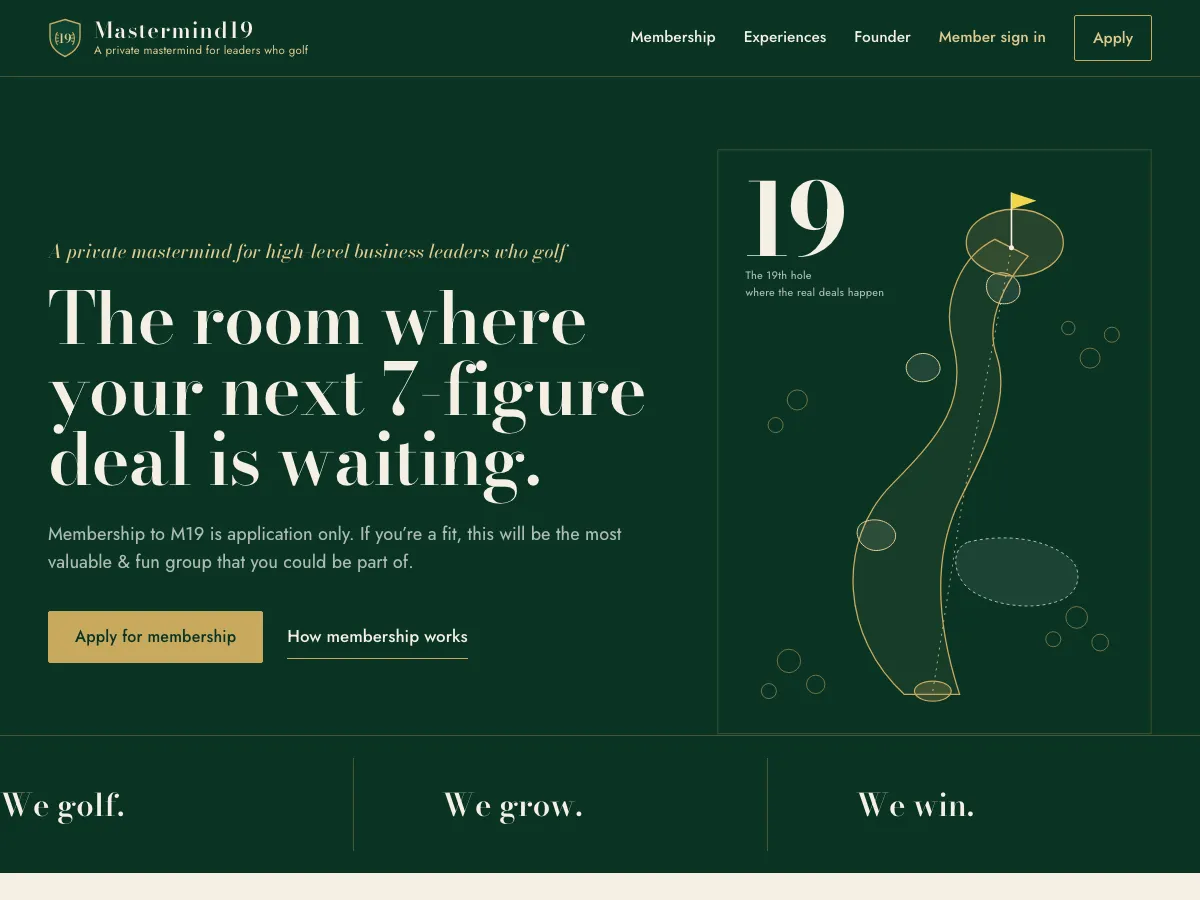
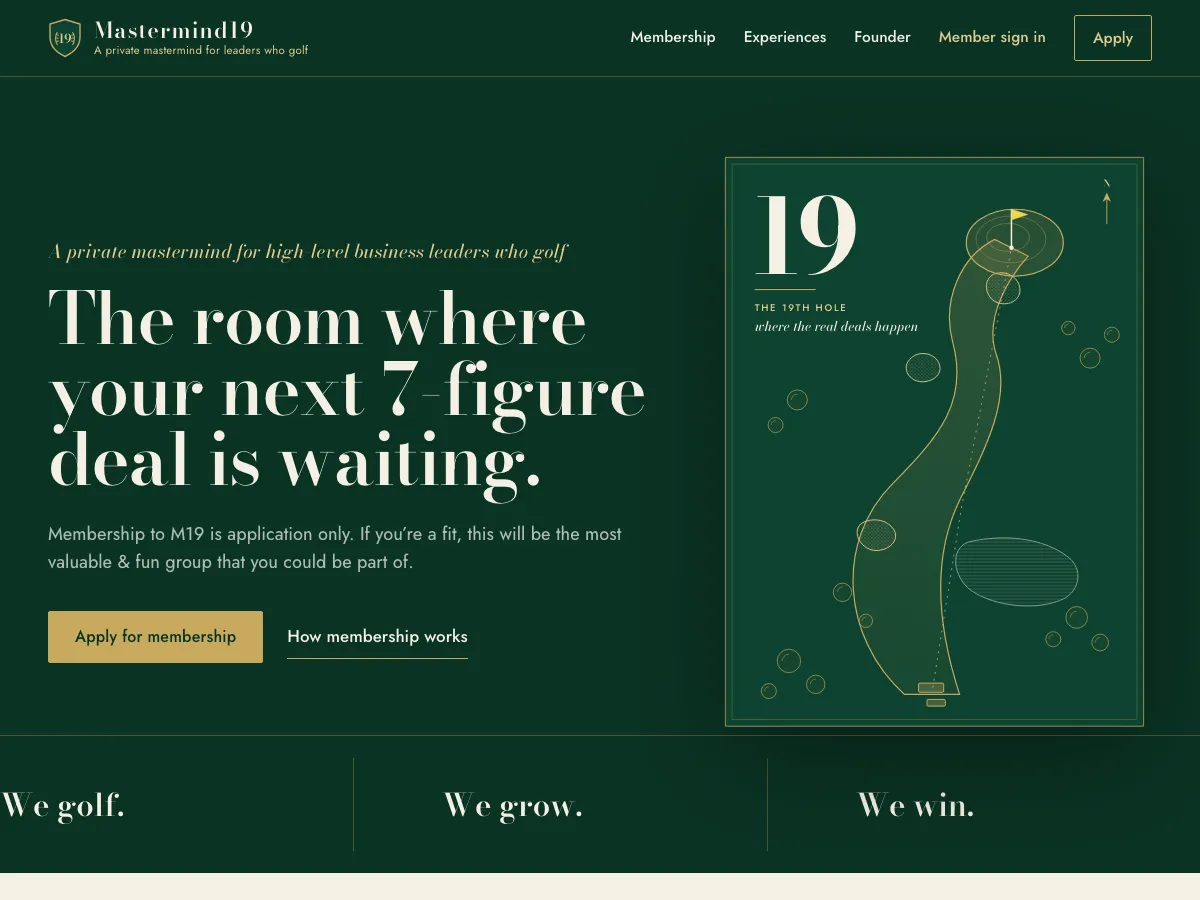
Mastermind19: engraved greens-book plates for the hole drawings
The hero hole and the four benefit holes are now generated from one
function: double-rule frame, solid fine gold line work, stippled bunkers,
hatched water, contour rings on the green, faint mowing stripes, tee boxes,
canopy-shaded trees, a north arrow and a letterspaced plate label. Fixes the
dotted strokes the draw-on animation left behind (pathLength="1") and the
reduced-motion rule that forced every stroke to full opacity.

Changed region(s): [[0.5858, 0.1556, 0.9558, 0.8089], [0.8017, 0.2489, 0.8633, 0.3111], [0.8325, 0.2178, 0.8633, 0.2489]]

diff --git a/preview/mastermind19/site.js b/preview/mastermind19/site.js
@@ -4,16 +4,59 @@
   var btn=document.querySelector('.menu-btn'), drawer=document.getElementById('drawer');
   if(btn&&drawer){btn.addEventListener('click',function(){var open=drawer.classList.toggle('open');btn.setAttribute('aria-expanded',open?'true':'false');btn.textContent=open?'Close':'Menu';});}
 
-  // yardage-book hole diagrams: drawn once here, placed wherever <div data-hole="n"> appears
+  // Engraved greens-book plates. One generator, five holes. Shared defs (gradient, stipple, hatch) injected once.
+  document.body.insertAdjacentHTML('afterbegin','<svg width="0" height="0" style="position:absolute" aria-hidden="true" focusable="false"><defs>'+
+    '<linearGradient id="m19-fw" x1="0" y1="0" x2="0" y2="1"><stop offset="0" stop-color="#C8A95E" stop-opacity=".17"/><stop offset="1" stop-color="#C8A95E" stop-opacity=".05"/></linearGradient>'+
+    '<linearGradient id="m19-fwL" x1="0" y1="0" x2="0" y2="1"><stop offset="0" stop-color="#155C41" stop-opacity=".18"/><stop offset="1" stop-color="#155C41" stop-opacity=".06"/></linearGradient>'+
+    '<pattern id="m19-sand" width="4" height="4" patternUnits="userSpaceOnUse"><circle cx="1" cy="1" r=".6" fill="#E2CB8E" opacity=".75"/><circle cx="3" cy="3" r=".6" fill="#E2CB8E" opacity=".45"/></pattern>'+
+    '<pattern id="m19-sandL" width="4" height="4" patternUnits="userSpaceOnUse"><circle cx="1" cy="1" r=".6" fill="#6E5420" opacity=".45"/><circle cx="3" cy="3" r=".6" fill="#6E5420" opacity=".25"/></pattern>'+
+    '<pattern id="m19-water" width="6" height="4" patternUnits="userSpaceOnUse"><line x1="0" y1="2" x2="6" y2="2" stroke="#8FA398" stroke-width=".6" opacity=".6"/></pattern>'+
+    '</defs></svg>');
+  function hole(o){
+    var s='<svg class="yd" viewBox="0 0 '+o.w+' '+o.h+'" role="img" aria-label="'+o.aria+'">';
+    s+='<defs><clipPath id="'+o.id+'-clip"><path d="'+o.fw+'"/></clipPath></defs>';
+    if(o.plate){ s+='<rect class="plate" x="10" y="10" width="'+(o.w-20)+'" height="'+(o.h-20)+'"/><rect class="frame" x="10" y="10" width="'+(o.w-20)+'" height="'+(o.h-20)+'"/><rect class="frame2" x="18" y="18" width="'+(o.w-36)+'" height="'+(o.h-36)+'"/>'; }
+    else { s+='<rect class="frame" x=".5" y=".5" width="'+(o.w-1)+'" height="'+(o.h-1)+'"/>'; }
+    s+='<g class="tr">'+o.trees.map(function(t){ var r=t[2]*.58; return '<circle cx="'+t[0]+'" cy="'+t[1]+'" r="'+t[2]+'" pathLength="1"/><path class="tri" d="M'+(t[0]-r).toFixed(1)+' '+t[1]+' A'+r.toFixed(1)+' '+r.toFixed(1)+' 0 0 1 '+t[0]+' '+(t[1]-r).toFixed(1)+'" pathLength="1"/>'; }).join('')+'</g>';
+    if(o.wt) s+='<path class="wt" d="'+o.wt+'" pathLength="1"/>';
+    s+='<path class="fw" d="'+o.fw+'" pathLength="1"/>';
+    s+='<g class="mow" clip-path="url(#'+o.id+'-clip)">'; for(var x=-o.h; x<o.w+o.h; x+=o.stripe){ s+='<line x1="'+x+'" y1="0" x2="'+(x+o.h)+'" y2="'+o.h+'"/>'; } s+='</g>';
+    o.tees.forEach(function(t){ s+='<rect class="tee" x="'+(t[0]-t[2]/2)+'" y="'+(t[1]-t[3]/2)+'" width="'+t[2]+'" height="'+t[3]+'" rx="1.5" pathLength="1"/>'; });
+    o.bk.forEach(function(d){ s+='<path class="bk" d="'+d+'" pathLength="1"/>'; });
+    var g=o.green; s+='<ellipse class="gr" cx="'+g.cx+'" cy="'+g.cy+'" rx="'+g.rx+'" ry="'+g.ry+'" pathLength="1"/>';
+    s+='<ellipse class="ct" cx="'+(g.cx-g.rx*.08).toFixed(1)+'" cy="'+(g.cy-g.ry*.1).toFixed(1)+'" rx="'+(g.rx*.72).toFixed(1)+'" ry="'+(g.ry*.7).toFixed(1)+'" pathLength="1"/><ellipse class="ct" cx="'+(g.cx-g.rx*.14).toFixed(1)+'" cy="'+(g.cy-g.ry*.16).toFixed(1)+'" rx="'+(g.rx*.44).toFixed(1)+'" ry="'+(g.ry*.42).toFixed(1)+'" pathLength="1"/>';
+    s+='<polyline class="ln" points="'+o.line+'"/>';
+    var p=g.pin, fl=o.flag; s+='<g class="pinset"><line class="pin" x1="'+p[0]+'" y1="'+p[1]+'" x2="'+p[0]+'" y2="'+(p[1]-fl)+'"/><path class="flag" d="M'+p[0]+' '+(p[1]-fl)+' l'+(fl*.42).toFixed(1)+' '+(fl*.14).toFixed(1)+' -'+(fl*.42).toFixed(1)+' '+(fl*.14).toFixed(1)+'z"/><circle class="cup" cx="'+p[0]+'" cy="'+p[1]+'" r="'+o.cup+'"/></g>';
+    if(o.north){ var n=o.north; s+='<g class="north"><line x1="'+n[0]+'" y1="'+(n[1]+38)+'" x2="'+n[0]+'" y2="'+(n[1]+8)+'"/><path d="M'+n[0]+' '+n[1]+' l5 11 -5 -3 -5 3z"/><text x="'+n[0]+'" y="'+(n[1]-7)+'" text-anchor="middle" class="nlab">N</text></g>'; }
+    if(o.label){ var L=o.label; s+='<text class="num" x="'+L.x+'" y="'+L.y+'">'+L.num+'</text><line class="lrule" x1="'+(L.x+5)+'" y1="'+(L.y+18)+'" x2="'+(L.x+78)+'" y2="'+(L.y+18)+'"/><text class="lbl" x="'+(L.x+5)+'" y="'+(L.y+44)+'">'+L.l1+'</text><text class="lbl2" x="'+(L.x+5)+'" y="'+(L.y+68)+'">'+L.l2+'</text>'; }
+    return s+'</svg>';
+  }
+  var SM={w:220,h:300,stripe:14,flag:34,cup:1.8,plate:false};
   var H={
-    // hero: the 19th hole
-    19:'<svg class="yd" viewBox="0 0 520 700" role="img" aria-label="Yardage-book drawing of a hole numbered nineteen, pin on the green"><rect class="frame" x="1" y="1" width="518" height="698"/><g class="tr"><circle cx="86" cy="612" r="14"/><circle cx="118" cy="640" r="11"/><circle cx="62" cy="648" r="9"/><circle cx="430" cy="560" r="13"/><circle cx="458" cy="590" r="10"/><circle cx="402" cy="586" r="9"/><circle cx="96" cy="300" r="12"/><circle cx="70" cy="330" r="9"/><circle cx="446" cy="250" r="12"/><circle cx="472" cy="222" r="9"/><circle cx="420" cy="214" r="8"/></g><path class="wt" d="M300 470c40-10 90-6 120 18 18 14 14 40-6 50-30 14-80 10-110-10-22-16-26-50-4-58z"/><path class="fw" d="M224 652 C150 585 140 470 210 400 C268 342 300 300 282 232 C268 180 292 128 332 108 L372 128 C352 150 318 200 334 246 C352 298 322 356 290 420 C258 486 262 566 290 652 Z"/><ellipse class="tee" cx="258" cy="648" rx="22" ry="12"/><path class="bk" d="M172 448c12-8 32-6 40 8 6 12-6 24-22 24-16 0-30-20-18-32z"/><path class="bk" d="M330 150c14-6 30 2 32 16 2 14-12 22-26 18-14-4-20-26-6-34z"/><path class="bk" d="M232 250c10-10 30-6 34 8 4 12-10 22-24 20-14-2-22-18-10-28z"/><ellipse class="gr" cx="356" cy="112" rx="58" ry="40"/><path class="ln" d="M258 648 L292 430 L352 118"/><g class="pinset"><line class="pin" x1="352" y1="118" x2="352" y2="52"/><path class="flag" d="M352 52 l30 10 -30 10z"/><circle class="cup" cx="352" cy="118" r="3"/></g><text class="num" x="30" y="128">19</text><text class="lbl" x="34" y="156">The 19th hole</text><text class="lbl" x="34" y="176">where the real deals happen</text></svg>',
-    1:'<svg class="yd" viewBox="0 0 220 300" role="img" aria-label="Hole one, a straight par three"><rect class="frame" x=".5" y=".5" width="219" height="299"/><g class="tr"><circle cx="40" cy="250" r="8"/><circle cx="26" cy="268" r="6"/><circle cx="182" cy="90" r="8"/><circle cx="196" cy="110" r="6"/></g><path class="fw" d="M92 262c-10-50-6-100 8-150 6-22 20-30 30-16 12 18 10 60 4 100-4 30-6 70-20 74-12 4-18-2-22-8z"/><ellipse class="tee" cx="104" cy="264" rx="12" ry="6"/><path class="bk" d="M60 120c8-6 20-2 22 8 2 8-8 14-16 12-10-2-14-14-6-20z"/><ellipse class="gr" cx="118" cy="86" rx="30" ry="22"/><path class="ln" d="M104 264 L116 90"/><g class="pinset"><line class="pin" x1="116" y1="90" x2="116" y2="50"/><path class="flag" d="M116 50 l18 6 -18 6z"/><circle class="cup" cx="116" cy="90" r="2"/></g></svg>',
-    2:'<svg class="yd" viewBox="0 0 220 300" role="img" aria-label="Hole two, a dogleg right"><rect class="frame" x=".5" y=".5" width="219" height="299"/><g class="tr"><circle cx="150" cy="240" r="8"/><circle cx="170" cy="256" r="6"/><circle cx="46" cy="130" r="8"/><circle cx="30" cy="150" r="6"/></g><path class="fw" d="M70 262c-8-40-4-80 16-110 18-26 48-36 80-30 24 4 32 26 14 40-22 18-56 10-74 36-16 24-10 50-14 70-2 10-18 10-22-6z"/><ellipse class="tee" cx="78" cy="266" rx="12" ry="6"/><path class="bk" d="M120 160c8-6 20-2 22 8 2 8-8 14-16 12-10-2-14-14-6-20z"/><path class="bk" d="M190 140c6-6 16-2 16 6 0 8-8 12-14 8-6-4-8-10-2-14z"/><ellipse class="gr" cx="166" cy="96" rx="30" ry="22"/><path class="ln" d="M78 266 L96 150 L164 100"/><g class="pinset"><line class="pin" x1="164" y1="100" x2="164" y2="60"/><path class="flag" d="M164 60 l18 6 -18 6z"/><circle class="cup" cx="164" cy="100" r="2"/></g></svg>',
-    3:'<svg class="yd" viewBox="0 0 220 300" role="img" aria-label="Hole three, over water to an island green"><rect class="frame" x=".5" y=".5" width="219" height="299"/><g class="tr"><circle cx="34" cy="250" r="8"/><circle cx="196" cy="240" r="7"/><circle cx="184" cy="40" r="7"/></g><path class="wt" d="M30 180c30-50 100-70 160-40 20 10 16 40-4 56-40 30-110 34-150 8-14-8-14-16-6-24z"/><path class="fw" d="M98 268c-6-30-4-56 6-72 6-10 18-10 24 0 10 18 8 44 0 68-4 12-26 16-30 4z"/><ellipse class="tee" cx="112" cy="268" rx="12" ry="6"/><ellipse class="gr" cx="116" cy="124" rx="30" ry="24"/><path class="bk" d="M140 148c6-6 16-2 16 6 0 8-8 12-14 8-6-4-8-10-2-14z"/><path class="ln" d="M112 268 L116 128"/><g class="pinset"><line class="pin" x1="116" y1="128" x2="116" y2="88"/><path class="flag" d="M116 88 l18 6 -18 6z"/><circle class="cup" cx="116" cy="128" r="2"/></g></svg>',
-    4:'<svg class="yd" viewBox="0 0 220 300" role="img" aria-label="Hole four, a long dogleg left"><rect class="frame" x=".5" y=".5" width="219" height="299"/><g class="tr"><circle cx="40" cy="240" r="8"/><circle cx="24" cy="258" r="6"/><circle cx="186" cy="160" r="8"/><circle cx="200" cy="140" r="6"/><circle cx="60" cy="40" r="7"/></g><path class="fw" d="M150 262c8-40 4-84-18-116-16-24-50-26-74-14-20 10-26 32-8 42 22 12 54-4 70 20 12 20 6 48 8 70 0 10 18 12 22-2z"/><ellipse class="tee" cx="140" cy="266" rx="12" ry="6"/><path class="bk" d="M96 170c8-6 20-2 22 8 2 8-8 14-16 12-10-2-14-14-6-20z"/><path class="bk" d="M34 120c6-6 16-2 16 6 0 8-8 12-14 8-6-4-8-10-2-14z"/><ellipse class="gr" cx="64" cy="92" rx="30" ry="22"/><path class="ln" d="M140 266 L112 160 L66 96"/><g class="pinset"><line class="pin" x1="66" y1="96" x2="66" y2="56"/><path class="flag" d="M66 56 l18 6 -18 6z"/><circle class="cup" cx="66" cy="96" r="2"/></g></svg>'
+    19: hole({id:'h19',w:520,h:700,stripe:24,flag:46,cup:2.6,plate:true,aria:'Greens-book plate of a hole numbered nineteen, pin on the green',
+      trees:[[86,612,14],[118,640,11],[62,648,9],[430,560,13],[458,590,10],[402,586,9],[96,300,12],[70,330,9],[446,250,12],[472,222,9],[420,214,8],[150,530,11],[178,564,8]],
+      wt:'M300 470c40-10 90-6 120 18 18 14 14 40-6 50-30 14-80 10-110-10-22-16-26-50-4-58z',
+      fw:'M224 652 C150 585 140 470 210 400 C268 342 300 300 282 232 C268 180 292 128 332 108 L372 128 C352 150 318 200 334 246 C352 298 322 356 290 420 C258 486 262 566 290 652 Z',
+      bk:['M172 448c12-8 32-6 40 8 6 12-6 24-22 24-16 0-30-20-18-32z','M330 150c14-6 30 2 32 16 2 14-12 22-26 18-14-4-20-26-6-34z','M232 250c10-10 30-6 34 8 4 12-10 22-24 20-14-2-22-18-10-28z'],
+      green:{cx:356,cy:112,rx:58,ry:40,pin:[352,118]}, tees:[[256,644,30,11],[262,662,22,8]], line:'258 644 292 430 352 118',
+      north:[466,52], label:{num:'19',x:40,y:150,l1:'The 19th hole',l2:'where the real deals happen'}}),
+    1: hole(Object.assign({},SM,{id:'h1',aria:'Hole one, a straight par three',trees:[[40,250,8],[26,268,6],[182,90,8],[196,110,6],[36,120,7]],
+      fw:'M92 262c-10-50-6-100 8-150 6-22 20-30 30-16 12 18 10 60 4 100-4 30-6 70-20 74-12 4-18-2-22-8z',bk:['M60 120c8-6 20-2 22 8 2 8-8 14-16 12-10-2-14-14-6-20z'],
+      green:{cx:118,cy:86,rx:30,ry:22,pin:[116,90]},tees:[[104,264,16,6]],line:'104 261 116 90'})),
+    2: hole(Object.assign({},SM,{id:'h2',aria:'Hole two, a dogleg right',trees:[[150,240,8],[170,256,6],[46,130,8],[30,150,6]],
+      fw:'M70 262c-8-40-4-80 16-110 18-26 48-36 80-30 24 4 32 26 14 40-22 18-56 10-74 36-16 24-10 50-14 70-2 10-18 10-22-6z',
+      bk:['M120 160c8-6 20-2 22 8 2 8-8 14-16 12-10-2-14-14-6-20z','M190 140c6-6 16-2 16 6 0 8-8 12-14 8-6-4-8-10-2-14z'],
+      green:{cx:166,cy:96,rx:30,ry:22,pin:[164,100]},tees:[[78,266,16,6]],line:'78 263 96 150 164 100'})),
+    3: hole(Object.assign({},SM,{id:'h3',aria:'Hole three, over water to an island green',trees:[[34,250,8],[196,240,7],[184,40,7]],
+      wt:'M30 180c30-50 100-70 160-40 20 10 16 40-4 56-40 30-110 34-150 8-14-8-14-16-6-24z',
+      fw:'M98 268c-6-30-4-56 6-72 6-10 18-10 24 0 10 18 8 44 0 68-4 12-26 16-30 4z',bk:['M140 148c6-6 16-2 16 6 0 8-8 12-14 8-6-4-8-10-2-14z'],
+      green:{cx:116,cy:124,rx:30,ry:24,pin:[116,128]},tees:[[112,268,16,6]],line:'112 265 116 128'})),
+    4: hole(Object.assign({},SM,{id:'h4',aria:'Hole four, a long dogleg left',trees:[[40,240,8],[24,258,6],[186,160,8],[200,140,6],[60,40,7]],
+      fw:'M150 262c8-40 4-84-18-116-16-24-50-26-74-14-20 10-26 32-8 42 22 12 54-4 70 20 12 20 6 48 8 70 0 10 18 12 22-2z',
+      bk:['M96 170c8-6 20-2 22 8 2 8-8 14-16 12-10-2-14-14-6-20z','M34 120c6-6 16-2 16 6 0 8-8 12-14 8-6-4-8-10-2-14z'],
+      green:{cx:64,cy:92,rx:30,ry:22,pin:[66,96]},tees:[[140,266,16,6]],line:'140 263 112 160 66 96'}))
   };
-  document.querySelectorAll('[data-hole]').forEach(function(el){var n=el.getAttribute('data-hole');if(H[n])el.innerHTML=H[n];});
+  document.querySelectorAll('[data-hole]').forEach(function(el){ var n=el.getAttribute('data-hole'); if(H[n]) el.innerHTML=H[n]; });
 
   // hero draw-on, once per page load (after fonts settle so the numeral doesn't jump)
   var hero=document.querySelector('.hero .hole');

diff --git a/preview/mastermind19/site.css b/preview/mastermind19/site.css
@@ -111,46 +111,60 @@ section{padding:clamp(72px,9vw,128px) 0}
   .motto div+div{padding-left:12px}
 }
 
-/* hole illustrations (yardage book) */
-.yd path,.yd circle,.yd ellipse,.yd line,.yd polyline{vector-effect:non-scaling-stroke}
-.yd .fw{fill:rgba(200,169,94,.07);stroke:var(--brass);stroke-width:1.3}
-.yd .gr{fill:rgba(200,169,94,.16);stroke:var(--brass);stroke-width:1.3}
-.yd .tee{fill:rgba(200,169,94,.22);stroke:var(--brass);stroke-width:1.2}
-.yd .bk{fill:rgba(245,239,227,.10);stroke:var(--brass2);stroke-width:1}
-.yd .wt{fill:rgba(174,187,177,.12);stroke:var(--muteD);stroke-width:1;stroke-dasharray:3 3}
-.yd .tr{fill:none;stroke:var(--brass);stroke-width:1;opacity:.55}
-.yd .ln{fill:none;stroke:var(--brass2);stroke-width:1;stroke-dasharray:2 5;opacity:.8}
-.yd .pin{stroke:var(--ivory);stroke-width:1.6}
-.yd .flag{fill:var(--flag)}
+/* hole illustrations: engraved greens-book plates */
+.yd *{vector-effect:non-scaling-stroke}
+.yd .plate{fill:var(--g800)}
+.yd .frame{fill:none;stroke:var(--brass);stroke-width:1;opacity:.75}
+.yd .frame2{fill:none;stroke:var(--brass);stroke-width:.6;opacity:.45}
+.yd .tr circle{fill:rgba(200,169,94,.05);stroke:var(--brass);stroke-width:.9;opacity:.7}
+.yd .tr .tri{fill:none;stroke:var(--brass);stroke-width:.8;opacity:.6}
+.yd .fw{fill:url(#m19-fw);stroke:var(--brass);stroke-width:1.2}
+.yd .mow line{stroke:var(--brass2);stroke-width:.6;opacity:.05}
+.yd .tee{fill:rgba(200,169,94,.28);stroke:var(--brass);stroke-width:1}
+.yd .bk{fill:url(#m19-sand);stroke:var(--brass2);stroke-width:.9}
+.yd .wt{fill:url(#m19-water);stroke:#8FA398;stroke-width:.9}
+.yd .gr{fill:rgba(200,169,94,.14);stroke:var(--brass);stroke-width:1.2}
+.yd .ct{fill:none;stroke:var(--brass);stroke-width:.7;opacity:.5}
+.yd .ln{fill:none;stroke:rgba(226,203,142,.7);stroke-width:.9;stroke-dasharray:2 5}
+.yd .pin{stroke:var(--ivory);stroke-width:1.5}
+.yd .flag{fill:var(--flag);stroke:var(--brass2);stroke-width:.5}
 .yd .cup{fill:var(--ivory)}
-.yd text{font-family:var(--display);fill:var(--ivory);font-optical-sizing:none;font-variation-settings:"opsz" 28}
-.yd .num{font-size:120px;font-weight:700;letter-spacing:-.04em}
-.yd .lbl{font-family:var(--ui);font-size:13px;fill:var(--muteD);letter-spacing:.02em}
-.yd .frame{fill:none;stroke:var(--lineD);stroke-width:1}
-.ivory .yd .fw,.linen .yd .fw,.paper .yd .fw{fill:rgba(21,92,65,.08);stroke:var(--g700)}
-.ivory .yd .gr,.linen .yd .gr,.paper .yd .gr{fill:rgba(21,92,65,.18);stroke:var(--g700)}
+.yd .north line{stroke:var(--brass);stroke-width:.9}
+.yd .north path{fill:var(--brass)}
+.yd .nlab{font-family:var(--display);font-size:12px;font-weight:600;fill:var(--brass2);font-optical-sizing:none;font-variation-settings:"opsz" 28}
+.yd .num{font-family:var(--display);font-size:124px;font-weight:700;letter-spacing:-.04em;fill:var(--ivory);font-optical-sizing:none;font-variation-settings:"opsz" 28}
+.yd .lrule{stroke:var(--brass);stroke-width:1}
+.yd .lbl{font-family:var(--ui);font-size:11.5px;font-weight:500;letter-spacing:.18em;text-transform:uppercase;fill:var(--brass2)}
+.yd .lbl2{font-family:var(--display);font-style:italic;font-size:16px;font-weight:500;fill:var(--ivory);font-optical-sizing:none;font-variation-settings:"opsz" 28}
+.ivory .yd .frame,.linen .yd .frame,.paper .yd .frame{stroke:var(--lineL);opacity:1}
+.ivory .yd .tr circle,.linen .yd .tr circle,.paper .yd .tr circle,.ivory .yd .tr .tri,.linen .yd .tr .tri,.paper .yd .tr .tri{stroke:var(--g700);fill:rgba(21,92,65,.05)}
+.ivory .yd .tr .tri,.linen .yd .tr .tri,.paper .yd .tr .tri{fill:none}
+.ivory .yd .fw,.linen .yd .fw,.paper .yd .fw{fill:url(#m19-fwL);stroke:var(--g700)}
+.ivory .yd .mow line,.linen .yd .mow line,.paper .yd .mow line{stroke:var(--g700);opacity:.09}
 .ivory .yd .tee,.linen .yd .tee,.paper .yd .tee{fill:rgba(21,92,65,.25);stroke:var(--g700)}
-.ivory .yd .bk,.linen .yd .bk,.paper .yd .bk{fill:rgba(200,169,94,.35);stroke:var(--goldk)}
-.ivory .yd .wt,.linen .yd .wt,.paper .yd .wt{stroke:var(--mute);fill:rgba(92,104,98,.12)}
-.ivory .yd .tr,.linen .yd .tr,.paper .yd .tr{stroke:var(--g700)}
-.ivory .yd .ln,.linen .yd .ln,.paper .yd .ln{stroke:var(--goldk)}
+.ivory .yd .bk,.linen .yd .bk,.paper .yd .bk{fill:url(#m19-sandL);stroke:var(--goldk)}
+.ivory .yd .wt,.linen .yd .wt,.paper .yd .wt{stroke:var(--mute)}
+.ivory .yd .gr,.linen .yd .gr,.paper .yd .gr{fill:rgba(21,92,65,.16);stroke:var(--g700)}
+.ivory .yd .ct,.linen .yd .ct,.paper .yd .ct{stroke:var(--g700)}
+.ivory .yd .ln,.linen .yd .ln,.paper .yd .ln{stroke:rgba(110,84,32,.8)}
 .ivory .yd .pin,.linen .yd .pin,.paper .yd .pin{stroke:var(--ink)}
 .ivory .yd .cup,.linen .yd .cup,.paper .yd .cup{fill:var(--ink)}
-.ivory .yd text,.linen .yd text,.paper .yd text{fill:var(--ink)}
-.ivory .yd .lbl,.linen .yd .lbl,.paper .yd .lbl{fill:var(--mute)}
-.ivory .yd .frame,.linen .yd .frame,.paper .yd .frame{stroke:var(--lineL)}
-/* one orchestrated draw-on at load */
-.draw .yd .fw,.draw .yd .gr,.draw .yd .tee,.draw .yd .bk,.draw .yd .wt,.draw .yd .tr,.draw .yd .ln{stroke-dasharray:1;stroke-dashoffset:1;animation:draw 2.2s var(--ease) forwards}
-.draw .yd .gr{animation-delay:.9s}.draw .yd .bk{animation-delay:1.1s}.draw .yd .tr{animation-delay:.4s}.draw .yd .ln{animation-delay:1.3s}.draw .yd .wt{animation-delay:.7s}
-.draw .yd .pinset{opacity:0;animation:rise .9s var(--ease) 2s forwards}
-.draw .yd .num,.draw .yd .lbl{opacity:0;animation:fade 1s var(--ease) 1.4s forwards}
+.ivory .yd .flag,.linen .yd .flag,.paper .yd .flag{stroke:var(--goldk)}
+/* one orchestrated draw-on at load (pathLength="1" on every stroked shape, so the final state is a solid line) */
+.draw .yd .fw,.draw .yd .gr,.draw .yd .ct,.draw .yd .tee,.draw .yd .bk,.draw .yd .wt,.draw .yd .tr circle,.draw .yd .tr .tri{stroke-dasharray:1;stroke-dashoffset:1;animation:draw 2.2s var(--ease) forwards}
+.draw .yd .tr circle,.draw .yd .tr .tri{animation-delay:.3s}.draw .yd .wt{animation-delay:.6s}.draw .yd .gr{animation-delay:.9s}.draw .yd .ct{animation-delay:1.3s}.draw .yd .bk{animation-delay:1.1s}.draw .yd .tee{animation-delay:.2s}
+.draw .yd .mow,.draw .yd .ln,.draw .yd .north,.draw .yd .num,.draw .yd .lrule,.draw .yd .lbl,.draw .yd .lbl2{opacity:0;animation:fadeIn 1s var(--ease) 1.5s forwards}
+.draw .yd .mow{animation-delay:1.9s}
+.draw .yd .pinset{opacity:0;animation:rise .9s var(--ease) 2.1s forwards}
 @keyframes draw{to{stroke-dashoffset:0}}
 @keyframes rise{from{opacity:0;transform:translateY(8px)}to{opacity:1;transform:none}}
-@keyframes fade{to{opacity:1}}
+@keyframes fadeIn{to{opacity:1}}
 @media (prefers-reduced-motion:reduce){
-  .draw .yd *{animation:none!important;opacity:1!important;stroke-dashoffset:0!important}
+  .draw .yd *{animation:none!important;stroke-dashoffset:0!important}
+  .draw .yd .mow,.draw .yd .ln,.draw .yd .north,.draw .yd .num,.draw .yd .lrule,.draw .yd .lbl,.draw .yd .lbl2,.draw .yd .pinset{opacity:1!important}
   html{scroll-behavior:auto}
 }
+.hole{filter:drop-shadow(0 30px 50px rgba(0,0,0,.35))}
 
 /* ---------- manifesto ---------- */
 .manifesto .wrap{display:grid;grid-template-columns:minmax(0,5fr) minmax(0,7fr);gap:clamp(28px,5vw,80px);align-items:center}

diff --git a/preview/mastermind19/pitch.html b/preview/mastermind19/pitch.html
@@ -11,7 +11,7 @@
 <!-- MASTERMIND19 — proposal page · Williams Digital · 2026-10-25 · Dylan@williamsdigital.io -->
 <link rel="preconnect" href="https://fonts.googleapis.com"><link rel="preconnect" href="https://fonts.gstatic.com" crossorigin>
 <link href="https://fonts.googleapis.com/css2?family=Bodoni+Moda:ital,opsz,wght@0,6..96,400..700;1,6..96,400..700&family=Jost:wght@300..700&display=swap" rel="stylesheet">
-<link rel="stylesheet" href="site.css?v=2">
+<link rel="stylesheet" href="site.css?v=3">
 <style>
 .p-head{padding:clamp(56px,7vw,100px) 0 clamp(40px,5vw,72px)}
 .p-head h1{font-size:clamp(32px,5.4vw,76px);overflow-wrap:anywhere}
@@ -140,6 +140,6 @@
  </div>
  <div class="legal"><span>Concept prepared October 2026. Not affiliated with or endorsed by Mastermind19. Copy and photographs from mastermind19.com; members, applications and events in the demos are fictional.</span></div>
 </div></footer>
-<script src="site.js?v=2"></script>
+<script src="site.js?v=3"></script>
 </body>
 </html>

diff --git a/preview/mastermind19/apply.html b/preview/mastermind19/apply.html
@@ -17,7 +17,7 @@
 -->
 <link rel="preconnect" href="https://fonts.googleapis.com"><link rel="preconnect" href="https://fonts.gstatic.com" crossorigin>
 <link href="https://fonts.googleapis.com/css2?family=Bodoni+Moda:ital,opsz,wght@0,6..96,400..700;1,6..96,400..700&family=Jost:wght@300..700&display=swap" rel="stylesheet">
-<link rel="stylesheet" href="site.css?v=2">
+<link rel="stylesheet" href="site.css?v=3">
 </head>
 <body class="has-mcta page-apply">
 <a class="skip" href="#main">Skip to content</a>
@@ -65,6 +65,6 @@
 </div></footer>
 <div class="concept">Website concept by <a href="https://williamsdigital.io">Williams Digital</a>. Not affiliated with Mastermind19. Copy and photographs are from mastermind19.com. The form sends nothing. <a href="pitch.html">See the proposal</a></div>
 <div class="mcta"><a class="btn gold" href="apply.html">Apply for membership</a></div>
-<script src="site.js?v=2"></script>
+<script src="site.js?v=3"></script>
 </body>
 </html>

diff --git a/preview/mastermind19/index.html b/preview/mastermind19/index.html
@@ -17,7 +17,7 @@
 -->
 <link rel="preconnect" href="https://fonts.googleapis.com"><link rel="preconnect" href="https://fonts.gstatic.com" crossorigin>
 <link href="https://fonts.googleapis.com/css2?family=Bodoni+Moda:ital,opsz,wght@0,6..96,400..700;1,6..96,400..700&family=Jost:wght@300..700&display=swap" rel="stylesheet">
-<link rel="stylesheet" href="site.css?v=2">
+<link rel="stylesheet" href="site.css?v=3">
 </head>
 <body class="has-mcta ">
 <a class="skip" href="#main">Skip to content</a>
@@ -110,6 +110,6 @@
 </div></footer>
 <div class="concept">Website concept by <a href="https://williamsdigital.io">Williams Digital</a>. Not affiliated with Mastermind19. Copy and photographs are from mastermind19.com. The form sends nothing. <a href="pitch.html">See the proposal</a></div>
 <div class="mcta"><a class="btn gold" href="apply.html">Apply for membership</a></div>
-<script src="site.js?v=2"></script>
+<script src="site.js?v=3"></script>
 </body>
 </html>

diff --git a/preview/mastermind19/experiences.html b/preview/mastermind19/experiences.html
@@ -17,7 +17,7 @@
 -->
 <link rel="preconnect" href="https://fonts.googleapis.com"><link rel="preconnect" href="https://fonts.gstatic.com" crossorigin>
 <link href="https://fonts.googleapis.com/css2?family=Bodoni+Moda:ital,opsz,wght@0,6..96,400..700;1,6..96,400..700&family=Jost:wght@300..700&display=swap" rel="stylesheet">
-<link rel="stylesheet" href="site.css?v=2">
+<link rel="stylesheet" href="site.css?v=3">
 </head>
 <body class="has-mcta ">
 <a class="skip" href="#main">Skip to content</a>
@@ -71,6 +71,6 @@
 </div></footer>
 <div class="concept">Website concept by <a href="https://williamsdigital.io">Williams Digital</a>. Not affiliated with Mastermind19. Copy and photographs are from mastermind19.com. The form sends nothing. <a href="pitch.html">See the proposal</a></div>
 <div class="mcta"><a class="btn gold" href="apply.html">Apply for membership</a></div>
-<script src="site.js?v=2"></script>
+<script src="site.js?v=3"></script>
 </body>
 </html>

diff --git a/preview/mastermind19/founder.html b/preview/mastermind19/founder.html
@@ -17,7 +17,7 @@
 -->
 <link rel="preconnect" href="https://fonts.googleapis.com"><link rel="preconnect" href="https://fonts.gstatic.com" crossorigin>
 <link href="https://fonts.googleapis.com/css2?family=Bodoni+Moda:ital,opsz,wght@0,6..96,400..700;1,6..96,400..700&family=Jost:wght@300..700&display=swap" rel="stylesheet">
-<link rel="stylesheet" href="site.css?v=2">
+<link rel="stylesheet" href="site.css?v=3">
 </head>
 <body class="has-mcta ">
 <a class="skip" href="#main">Skip to content</a>
@@ -73,6 +73,6 @@
 </div></footer>
 <div class="concept">Website concept by <a href="https://williamsdigital.io">Williams Digital</a>. Not affiliated with Mastermind19. Copy and photographs are from mastermind19.com. The form sends nothing. <a href="pitch.html">See the proposal</a></div>
 <div class="mcta"><a class="btn gold" href="apply.html">Apply for membership</a></div>
-<script src="site.js?v=2"></script>
+<script src="site.js?v=3"></script>
 </body>
 </html>

diff --git a/preview/mastermind19/membership.html b/preview/mastermind19/membership.html
@@ -17,7 +17,7 @@
 -->
 <link rel="preconnect" href="https://fonts.googleapis.com"><link rel="preconnect" href="https://fonts.gstatic.com" crossorigin>
 <link href="https://fonts.googleapis.com/css2?family=Bodoni+Moda:ital,opsz,wght@0,6..96,400..700;1,6..96,400..700&family=Jost:wght@300..700&display=swap" rel="stylesheet">
-<link rel="stylesheet" href="site.css?v=2">
+<link rel="stylesheet" href="site.css?v=3">
 </head>
 <body class="has-mcta ">
 <a class="skip" href="#main">Skip to content</a>
@@ -91,6 +91,6 @@
 </div></footer>
 <div class="concept">Website concept by <a href="https://williamsdigital.io">Williams Digital</a>. Not affiliated with Mastermind19. Copy and photographs are from mastermind19.com. The form sends nothing. <a href="pitch.html">See the proposal</a></div>
 <div class="mcta"><a class="btn gold" href="apply.html">Apply for membership</a></div>
-<script src="site.js?v=2"></script>
+<script src="site.js?v=3"></script>
 </body>
 </html>

diff --git a/preview/mastermind19/_src/build.py b/preview/mastermind19/_src/build.py
@@ -35,7 +35,7 @@ FOOTER = f'''</main>
 </div></footer>
 <div class="concept">Website concept by <a href="https://williamsdigital.io">Williams Digital</a>. Not affiliated with Mastermind19. Copy and photographs are from mastermind19.com. The form sends nothing. <a href="pitch.html">See the proposal</a></div>
 <div class="mcta"><a class="btn gold" href="apply.html">Apply for membership</a></div>
-<script src="site.js?v=2"></script>
+<script src="site.js?v=3"></script>
 </body>
 </html>
 '''
@@ -61,7 +61,7 @@ def page(file, title, desc, body, cls=''):
 -->
 <link rel="preconnect" href="https://fonts.googleapis.com"><link rel="preconnect" href="https://fonts.gstatic.com" crossorigin>
 <link href="https://fonts.googleapis.com/css2?family=Bodoni+Moda:ital,opsz,wght@0,6..96,400..700;1,6..96,400..700&family=Jost:wght@300..700&display=swap" rel="stylesheet">
-<link rel="stylesheet" href="site.css?v=2">
+<link rel="stylesheet" href="site.css?v=3">
 </head>
 <body class="has-mcta {cls}">
 ''' + header(cur) + body + FOOTER
